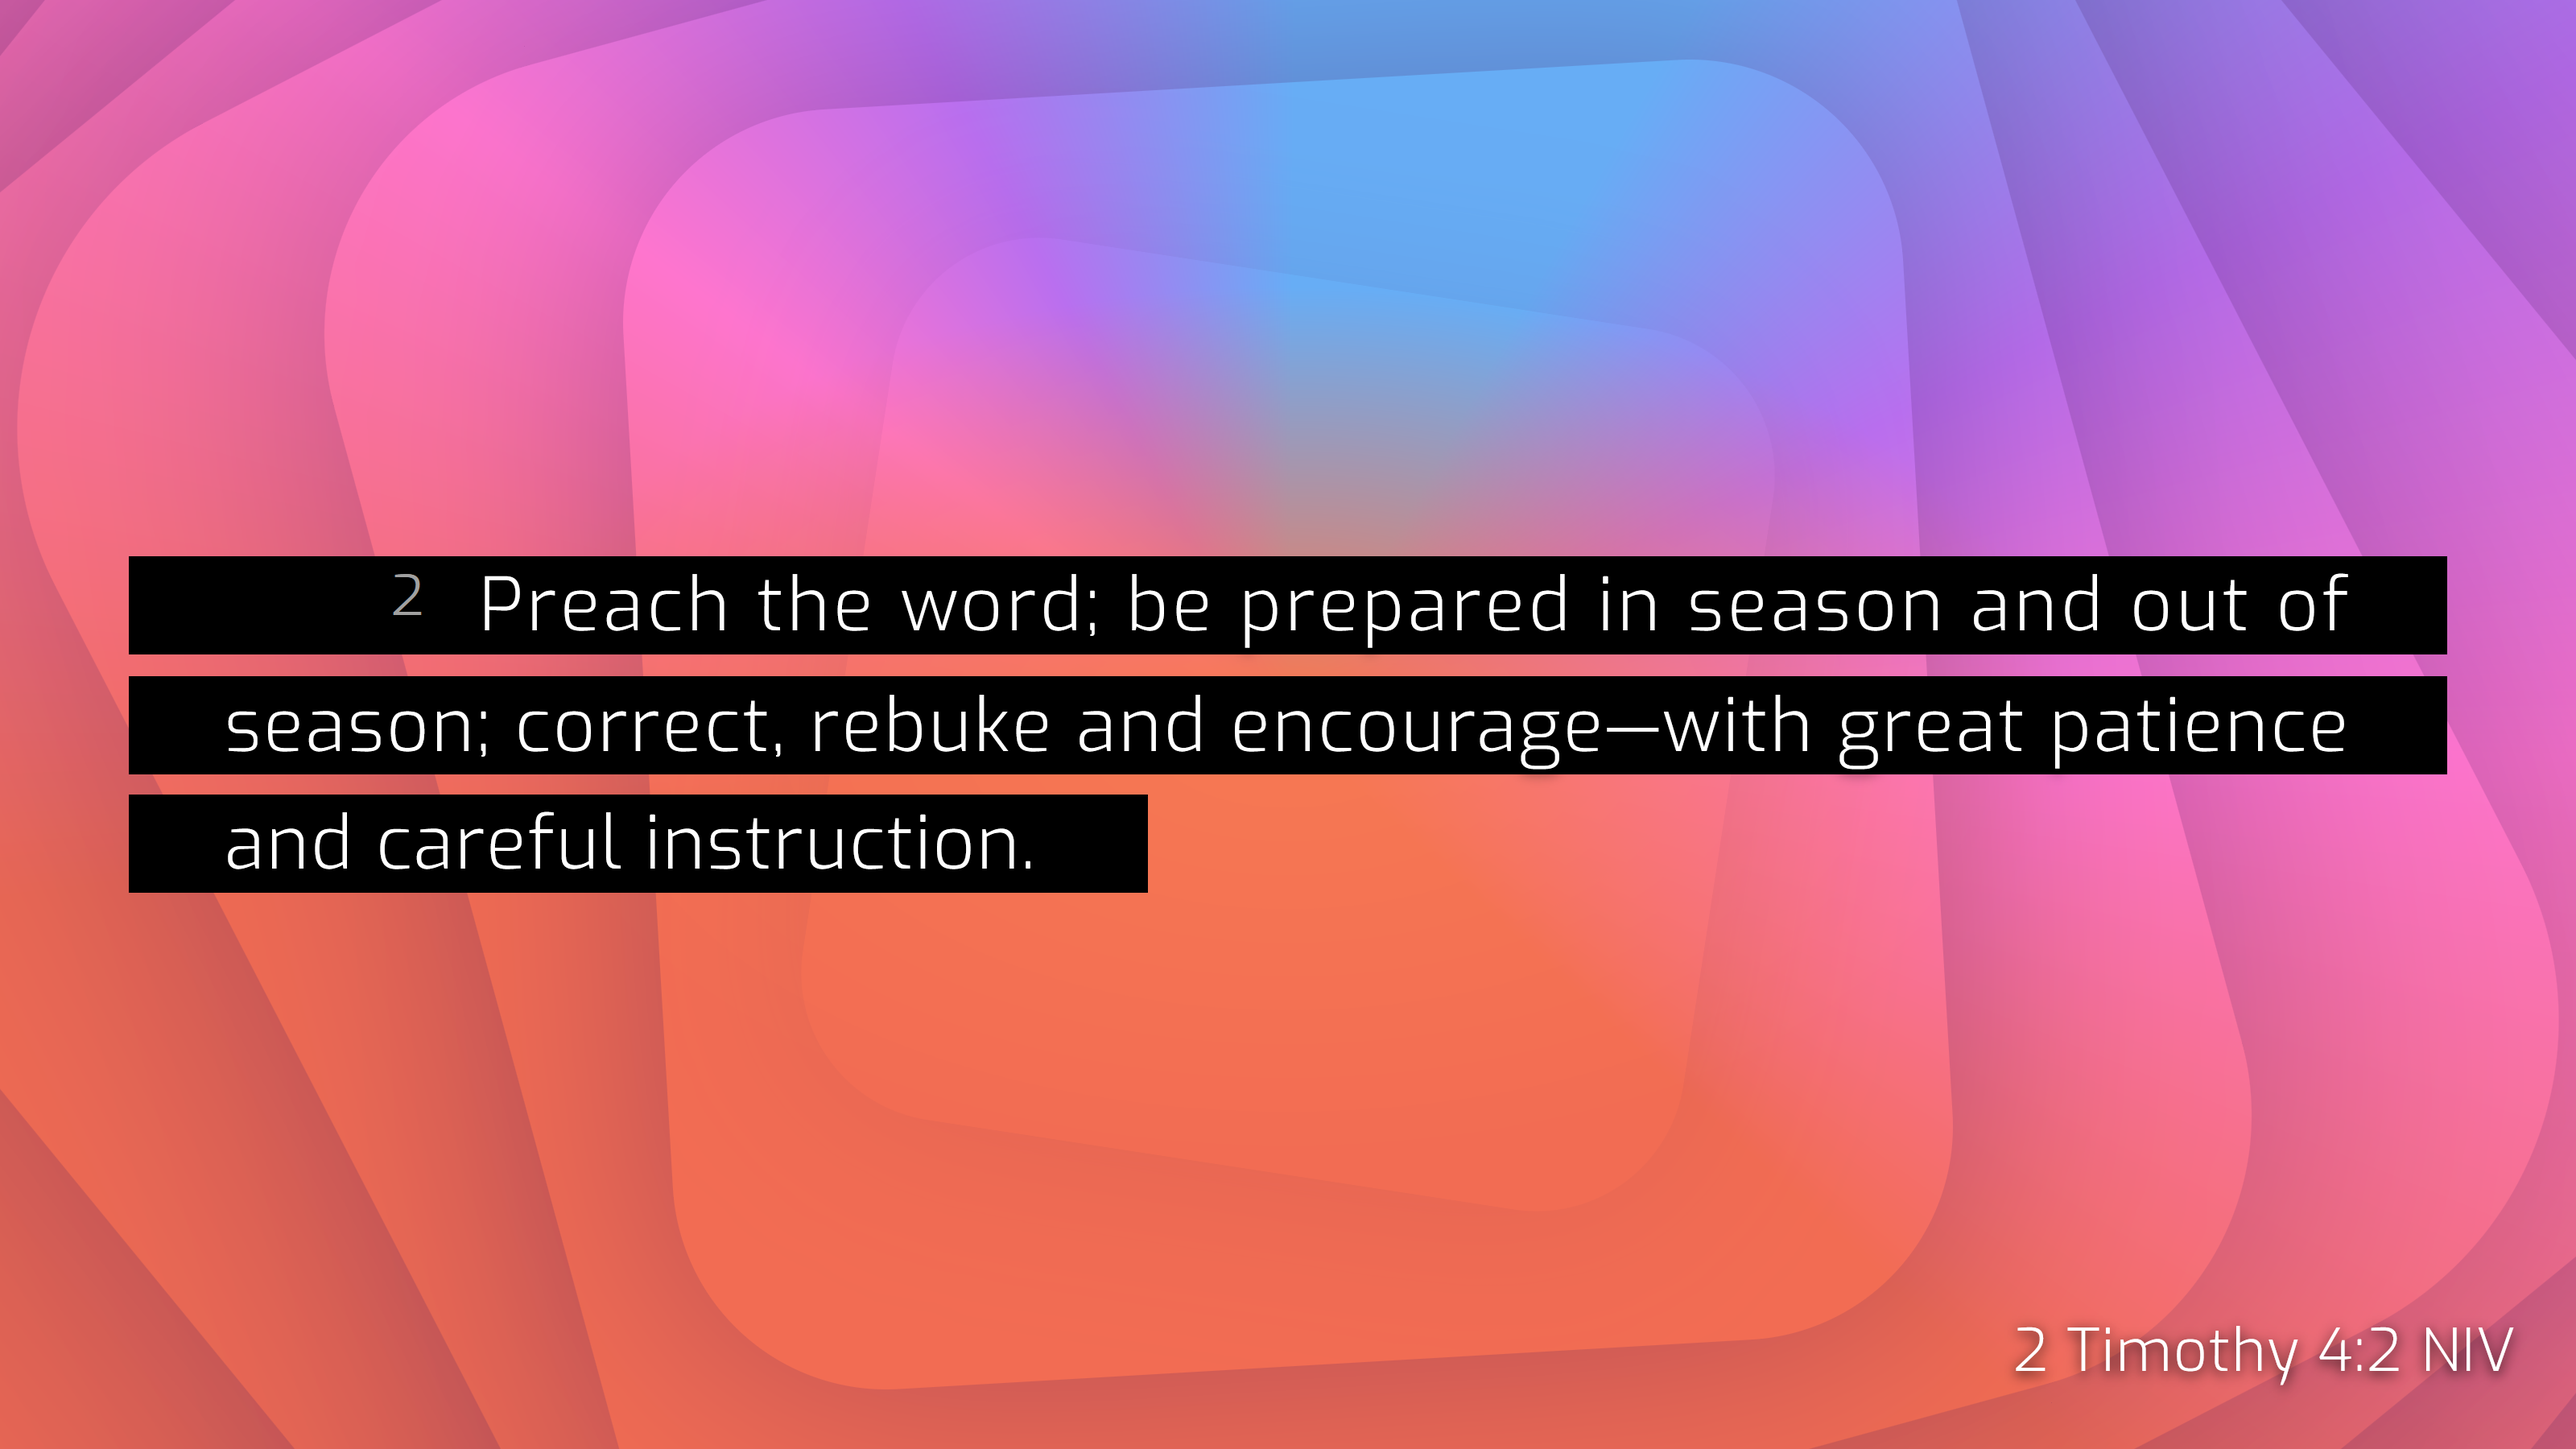
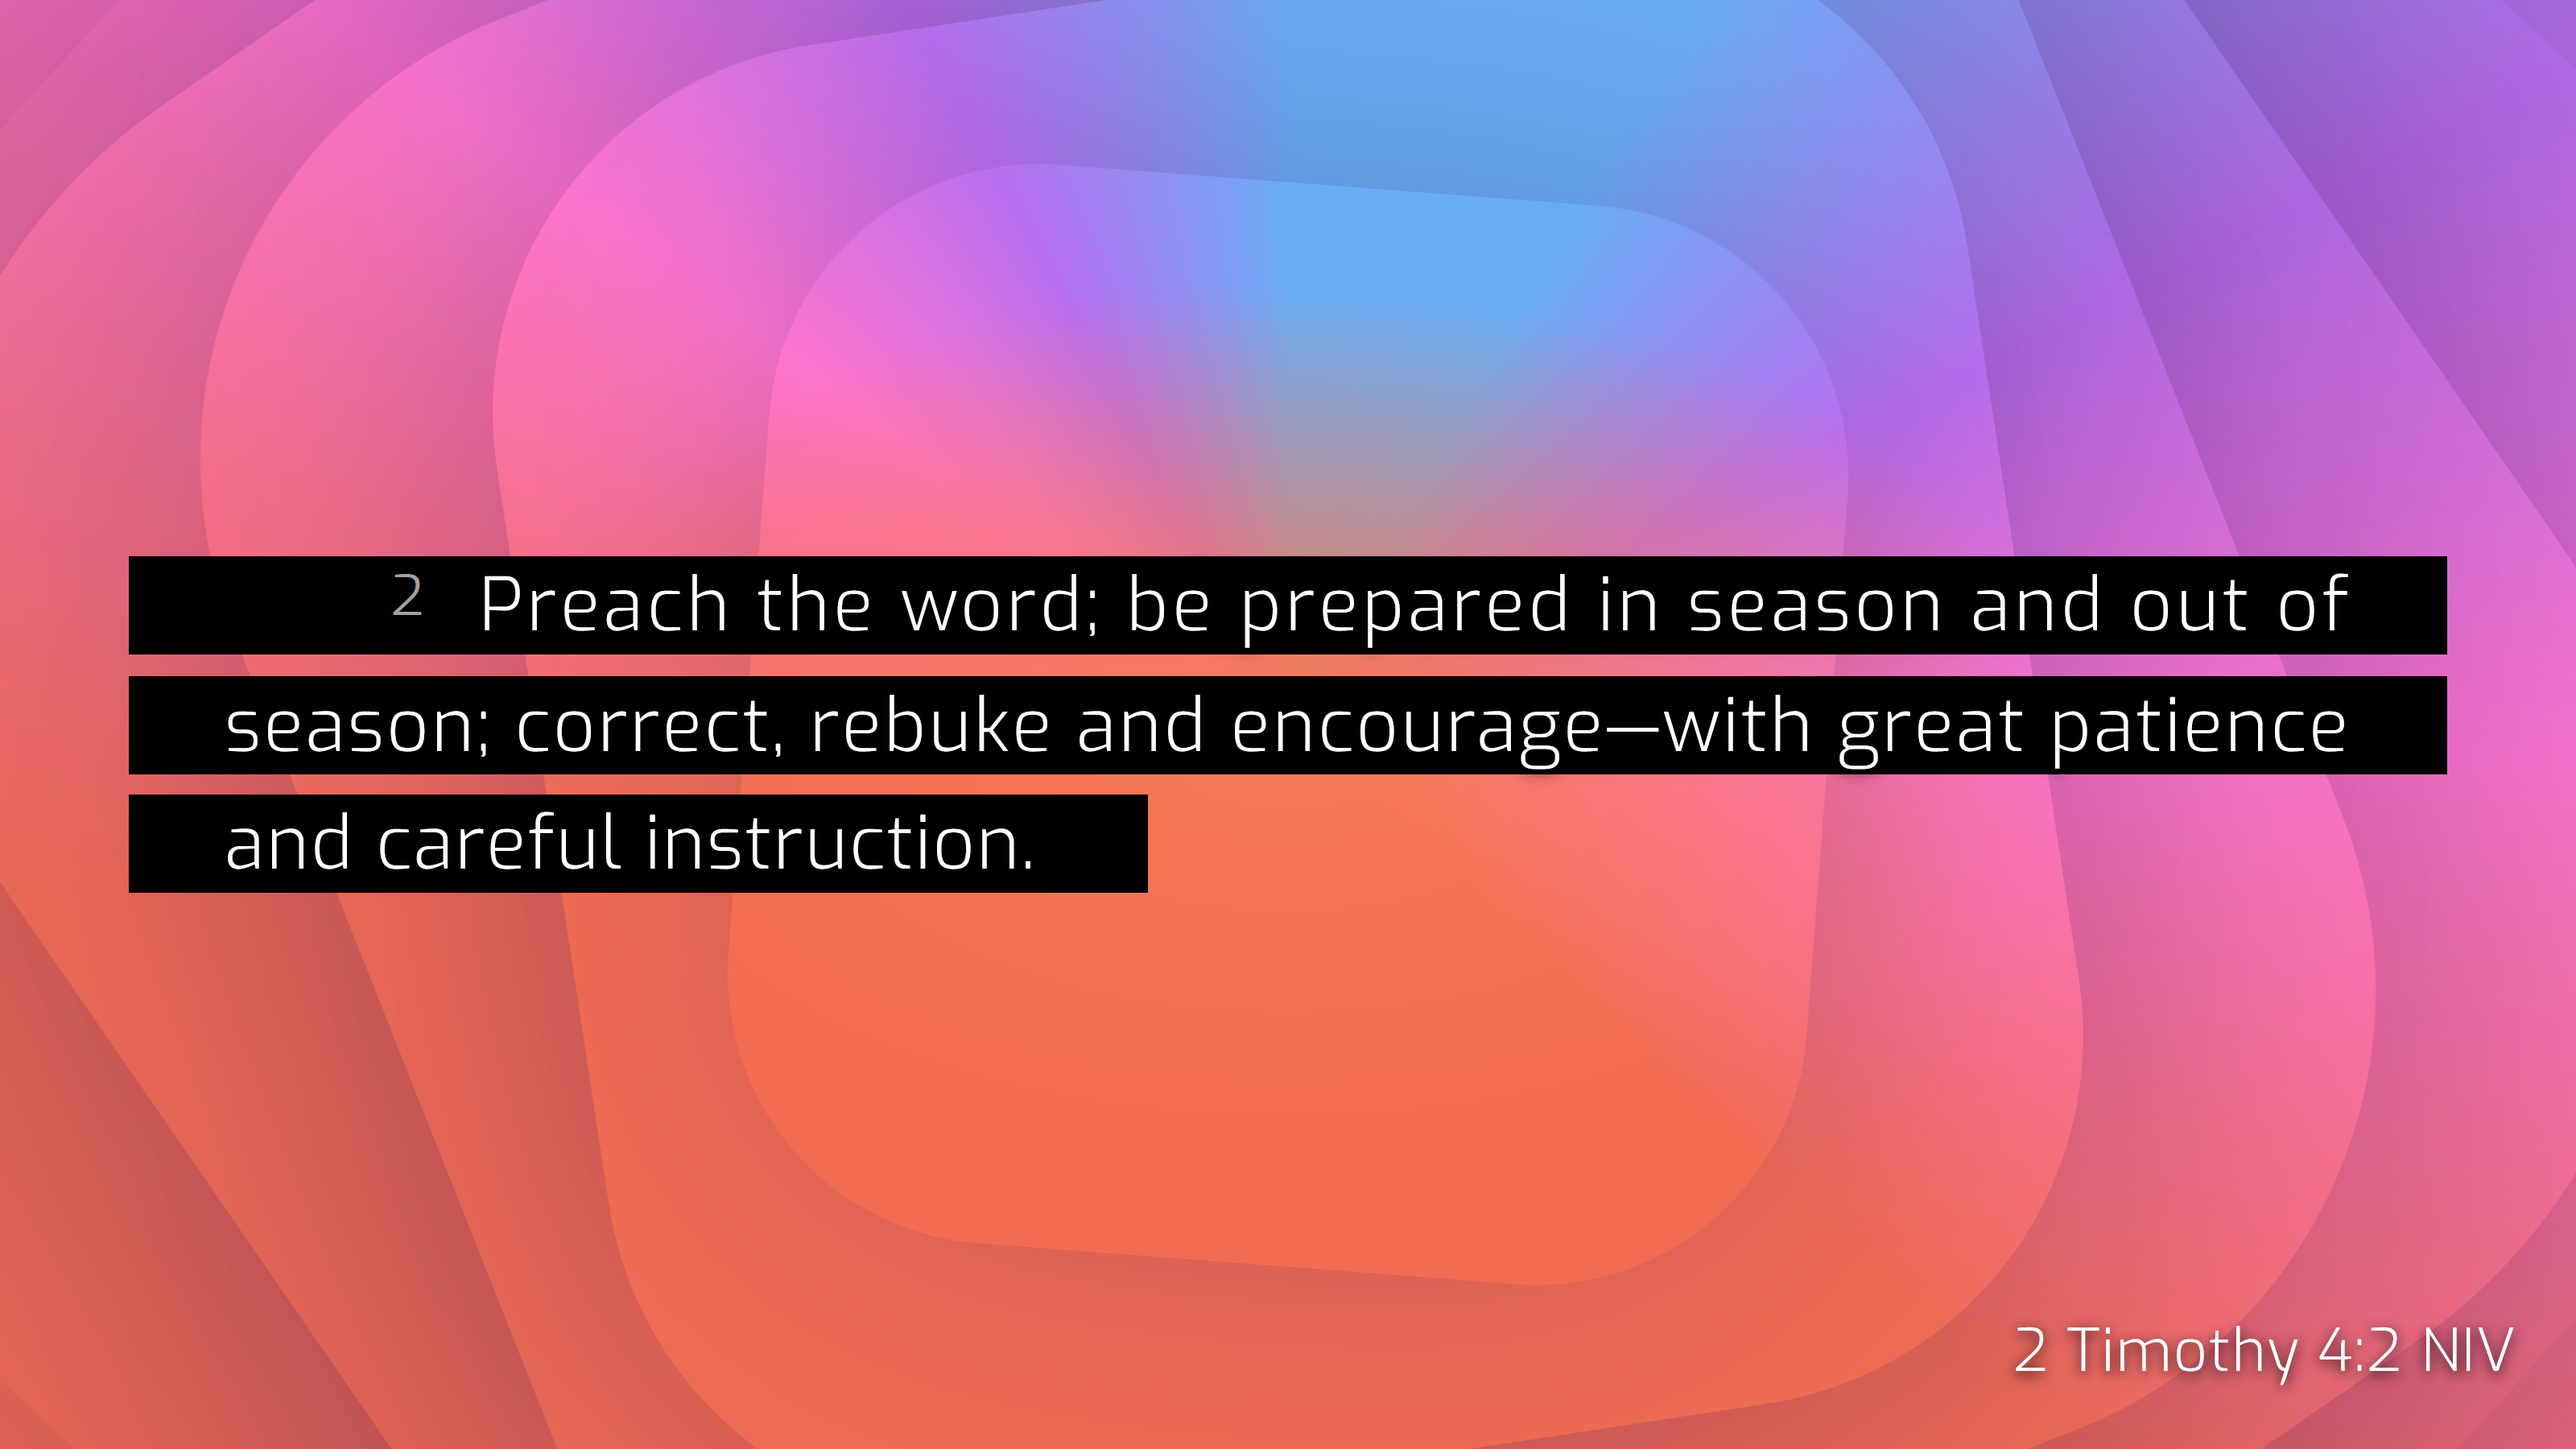
Pal optimalisation and fixes

Changed region(s): [[0.0, 0.6533, 0.1562, 0.9956], [0.125, 0.6222, 0.1562, 0.7778], [0.0, 0.0, 0.0312, 0.0311]]

diff --git a/backgrounds/pal.css b/backgrounds/pal.css
@@ -17,7 +17,7 @@
   --red: rgba(250, 57, 189, 1);
   --pink: rgba(245, 104, 61, 1);
   --angle-multiplier: 1.3;
-  --scale-multiplier: 2.2;
+  --scale-multiplier: 2.8;
 
   --shadow: #47185D60;
 }
@@ -83,8 +83,10 @@ body::before {
 .box2 { --initialScale: 2.00; --endScale: 2.50; --initialAngle: -10deg; --endAngle: -20deg; }
 .box3 { --initialScale: 2.50; --endScale: 3.00; --initialAngle: -20deg; --endAngle: -30deg; }
 .box4 { --initialScale: 3.00; --endScale: 3.50; --initialAngle: -30deg; --endAngle: -40deg; }
+/*
 .box5 { --initialScale: 3.50; --endScale: 4.00; --initialAngle: -40deg; --endAngle: -50deg; }
 .box6 { --initialScale: 4.00; --endScale: 4.50; --initialAngle: -50deg; --endAngle: -60deg; }
+*/
 
 @keyframes show { from { opacity: 0; } to { opacity: 1; } }
 @keyframes hide { from { opacity: 1; } to { opacity: 0; } }

diff --git a/backgrounds/pal.html b/backgrounds/pal.html
@@ -8,8 +8,6 @@
 		<link rel="stylesheet" href="pal.css"/>		
 	</head>
 	<body>
-	<!--div class="box box6"></div>
-		<div class="box box5"></div!-->
 		<div class="box box4"></div>
 		<div class="box box3"></div>
 		<div class="box box2"></div>
